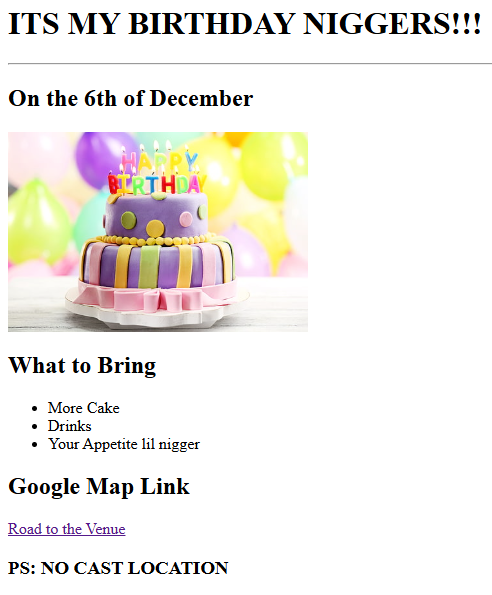
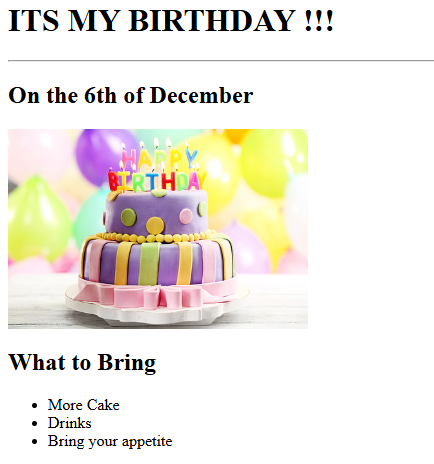
Add files via upload

diff --git a/public/birthday-invite.html b/public/birthday-invite.html
@@ -1,5 +1,5 @@
 <!-- This is one possible solution -->
-<h1>ITS MY BIRTHDAY NIGGERS!!!</h1><hr>
+<h1>ITS MY BIRTHDAY !!!</h1><hr>
 <h2>On the 6th of December</h2>
 
 <img src="https://raw.githubusercontent.com/appbrewery/webdev/main/birthday-cake3.4.jpeg"height="200" alt="birthday cake for the boyz">
@@ -8,11 +8,11 @@
 <ul>
     <li>More Cake</li>
     <li>Drinks</li>
-    <li>Your Appetite lil nigger</li>
+    <li>Bring your appetite</li>
 </ul>
 
 <h2>Google Map Link</h2>
 
 <a href="https://www.google.com/maps/@35.7040744,139.5577317,3a,75y,289.6h,87.01t,0.72r/data=!3m6!1e1!3m4!1sgT28ssf0BB2LxZ63JNcL1w!2e0!7i13312!8i6656">Road to the Venue</a>
 
-<h3>PS: NO CAST LOCATION</h3>
+<!-- <h3>PS: NO CAST LOCATION</h3> -->

diff --git a/public/movie-ranking.html b/public/movie-ranking.html
@@ -1,9 +1,9 @@
-<h1>The Best Shows According to Babayaga</h1>
+<h1>The Best Shows According to Mezue</h1>
 <h2>My top 3 shows of all-time</h2>
 <hr>
 <h3>Game of thrones</h3>       
 <p>I mean, who doesn't love GOT?</p>
 <h3>Attack on Titans</h3>
-<p>Eren was right</p>
-<h3>Dahmer</h3>
+<p>Absolute Cinema</p>
+<h3>Peaky Blinders</h3>
 <p>masterpiece</p>

diff --git a/public/contact.html b/public/contact.html
@@ -1,9 +1,9 @@
 <h1>Contact Me</h1>
-<p>Tel: +123456789</p>
-<p>Email: me@gmail.com</p>
+<p>Tel: +2349133416551</p>
+<p>Email: okoyemezue53@gmail.com</p>
 <p>Address:</p>
 <p>
-  123 North Street<br />
-  Some City<br />
-  Some Country <br />
+  Favourland Estate, Life camp<br />
+  Abuja<br />
+  Nigeria<br />
 </p>
